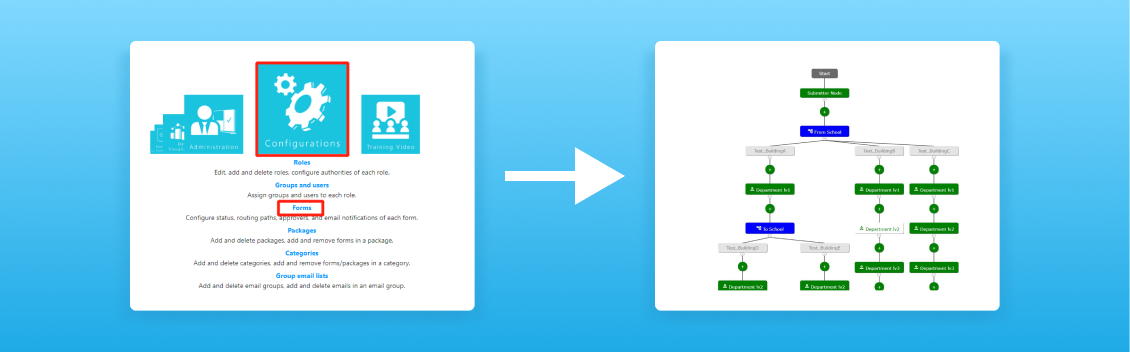
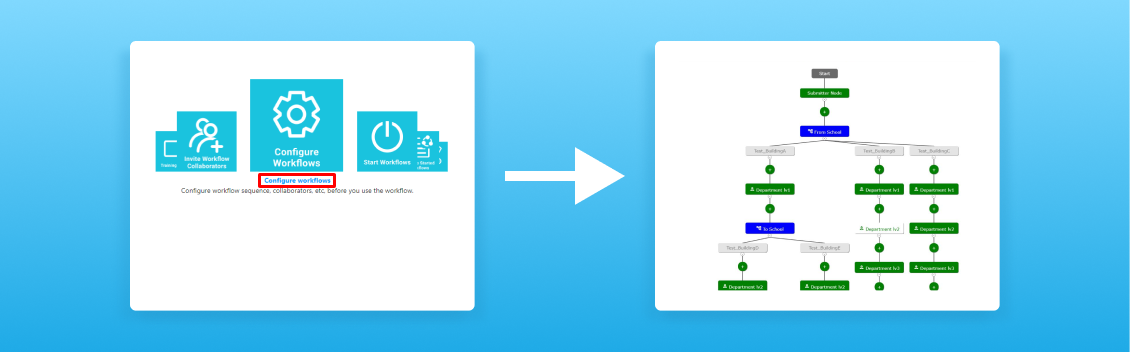
032823.1

Changed region(s): [[0.1239, 0.1562, 0.4027, 0.8438]]

diff --git a/product/solutions/AcceptTheFreeAccount_RRCN.html b/product/solutions/AcceptTheFreeAccount_RRCN.html
@@ -47,7 +47,7 @@
             </div>
             <!-- <button class="btn-size-defult btn-solid-onDark">Free Trail</button> -->
             <button class="btn btn-light"
-                onclick="window.open('https://cnsite1.astihosted.com/SubmitPublicForms.aspx?id=pgY5rb4jXkQRLR4zLgZVfQ%3d%3d')">
+                onclick="window.open('https://cnsite1.astihosted.com/Login3.aspx')">
                 Accept the Free Account
             </button>
 
@@ -64,14 +64,14 @@
 
                 </h5>
                 <button class="btn btn-primary btn-lg"
-                    onclick="window.open('https://cnsite1.astihosted.com/SubmitPublicForms.aspx?id=pgY5rb4jXkQRLR4zLgZVfQ%3d%3d')">
+                    onclick="window.open('https://cnsite1.astihosted.com/Login3.aspx')">
                     Click Here for Your Account to Experience Now
                 </button>
-                <h5 style="margin: 0;">
+                <!-- <h5 style="margin: 0;">
                     You will experience the following simple workflow.
-                </h5>
+                </h5> -->
             </div>
-            <div class="experience-flow-tab-container">
+            <!-- <div class="experience-flow-tab-container">
                 <p><strong>*</strong>Click on steps 1 through 10 for guidance:</p>
                 <div class="experience-flow-tab">
                     <nav class="nav nav-tabs mb-3 flex-column" id="nav-tab" role="tablist">
@@ -194,56 +194,56 @@
                     <div class="tab-content" id="nav-tabContent">
                         <div class="tab-pane fade tab-pane-1 show active" id="tab-start" role="tabpanel"
                             aria-labelledby="nav-home-tab">
-                            <!-- 1 -->
+                            1
                         </div>
                         <div class="tab-pane fade tab-pane-2" id="StartFilling" role="tabpanel"
                             aria-labelledby="nav-home-tab">
-                            <!-- 2 -->
+                            2
                         </div>
                         <div class="tab-pane fade tab-pane-3" id="enterInfo" role="tabpanel"
                             aria-labelledby="nav-home-tab">
-                            <!-- 3 -->
+                            3
                         </div>
                         <div class="tab-pane fade tab-pane-6" id="receiveAccountInfo" role="tabpanel"
                             aria-labelledby="nav-home-tab">
-                            <!-- 4 -->
+                            4
                         </div>
                         <div class="tab-pane fade tab-pane-7" id="receiveSubmissionInfo" role="tabpanel"
                             aria-labelledby="nav-home-tab">
-                            <!-- 5 -->
+                            5
                         </div>
                         <div class="tab-pane fade tab-pane-4" id="fillInPublic" role="tabpanel"
                             aria-labelledby="nav-home-tab">
-                            <!-- 6 -->
+                            6
                         </div>
                         <div class="tab-pane fade tab-pane-5" id="submitPublic" role="tabpanel"
                             aria-labelledby="nav-home-tab">
-                            <!-- 7 -->
+                            7
                         </div>
                         <div class="tab-pane fade tab-pane-8" id="receiveApprovalInfo" role="tabpanel"
                             aria-labelledby="nav-home-tab">
-                            <!-- 8 -->
+                            8
                         </div>
                         <div class="tab-pane fade tab-pane-9" id="ApproveForm" role="tabpanel"
                             aria-labelledby="nav-home-tab">
-                            <!-- 9 -->
+                            9
                         </div>
                         <div class="tab-pane fade tab-pane-10" id="completed" role="tabpanel"
                             aria-labelledby="nav-home-tab">
-                            <!-- 10 -->
+                            10
                         </div>
                     </div>
                 </div>
-            </div>
+            </div> -->
 
             <div class="more-feature">
-                <h3>
+                <!-- <h3>
                     Congratulations! You have just experienced a simple workflow.
-                </h3>
-                <h5>
+                </h3> -->
+                <!-- <h5>
                     To start using our forms, you can log in to <a
                         href="https://cnsite1.astihosted.com">https://CNSITE1.astihosted.com</a> with your account.
-                </h5>
+                </h5> -->
 
                 <div class="start-login-item">
                     <h5>
@@ -257,7 +257,7 @@
                 </div>
                 <div class="start-login-item">
                     <h5>
-                        Once logged in, Go to the <b>“Configurations”</b> slide and <b>“Forms”</b> link to <b>configure
+                        Once logged in, Go to the <b>“Configure Workflows”</b> slide and <b>“Configure Workflows”</b> link to <b>configure
                             the workflow</b> for the form you like to use, and forms will automatically be routed to
                         anyone you assigned in the workflow one by one.
                     </h5>
@@ -872,7 +872,7 @@
 
             <div style="margin: 1.5rem 0 1rem 0;">
                 <button class="btn btn-light btn-lg"
-                    onclick="window.open('https://cnsite1.astihosted.com/SubmitPublicForms.aspx?id=pgY5rb4jXkQRLR4zLgZVfQ%3d%3d')">
+                    onclick="window.open('https://cnsite1.astihosted.com/Login3.aspx')">
                     Accept the Free Account
                 </button>
                 <button class="btn btn-light btn-lg"

diff --git a/product/solutions/StepsToRegisterInProduct_RRCN_public.html b/product/solutions/StepsToRegisterInProduct_RRCN_public.html
@@ -89,7 +89,7 @@
             flex-flow: row nowrap;
             justify-content: center;
             padding: 0.5rem;
-            background-color: var(--color-bg-lightgray-10);
+            background-color: #fcfcfc;
             border-radius: 1rem;
             width: 670px;
 

diff --git a/RightResponse Website/css/index.css b/RightResponse Website/css/index.css
@@ -602,12 +602,6 @@ margin-left:18px;
 .slick-next {
   right: 15px;
 }
-.slick-next,
-.slick-prev {
-  /* width: 30px;
-  height: 30px; */
-  /* background: rgba(0, 0, 0, 0.2); */
-}
 .slick-next:before,
 .slick-prev:before {
     top:4px;
